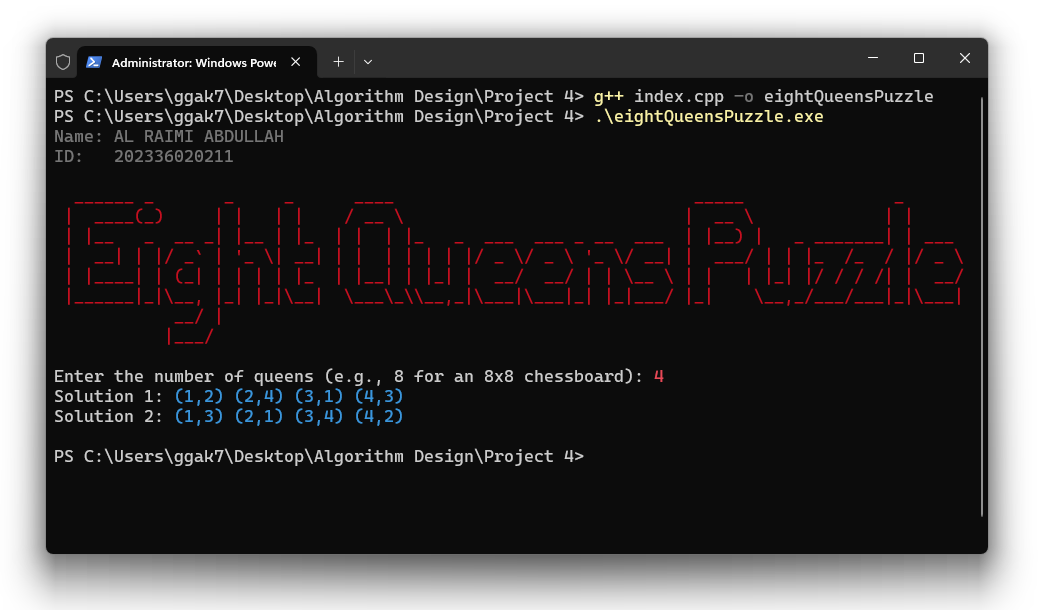
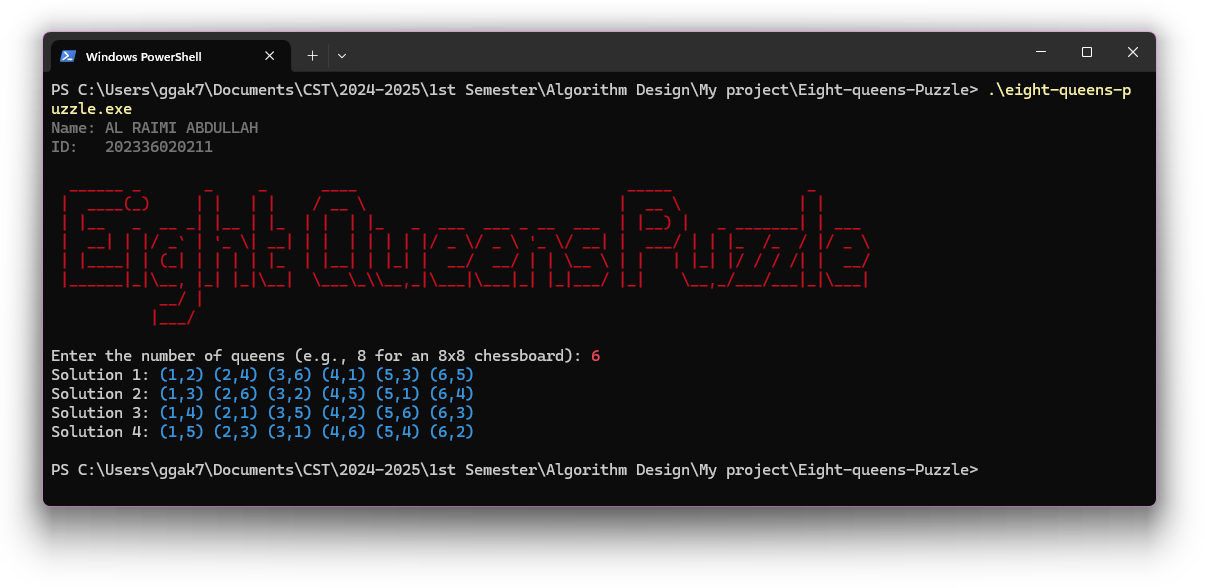
Update Screenshots

diff --git a/Eight-queens-Puzzle/src/eight-queens-puzzle.cpp b/Eight-queens-Puzzle/src/eight-queens-puzzle.cpp
@@ -28,12 +28,13 @@ int main()
     // Validate the input
     if (n <= 0 || n >= MAXN) {
         printf("Invalid number of queens. Please enter a value between 1 and %d.\n", MAXN - 1);
+        	printf("\033[0m\n");
         return 1;
     }
     
     // Solve the n-queens problem
     solveQueens(n);
-	printf("\n");
+	printf("\033[0m\n");
     return 0;
 }
 

diff --git a/README.md b/README.md
@@ -83,6 +83,10 @@ This project tackles the 0/1 Knapsack problem using a brute-force approach. The 
 - **Sample Input**: Items with weights and values, knapsack capacity.
 - **Sample Output**: Maximum value and selected items.
 
+Preview of the project output:
+
+![Project Screenshot](Knapsack-Problem-Dynamic-Programming/Screenshot.png)
+
 [More Details](Knapsack-Problem-Dynamic-Programming)
 
 ### 6. Closest-Pair Problem
